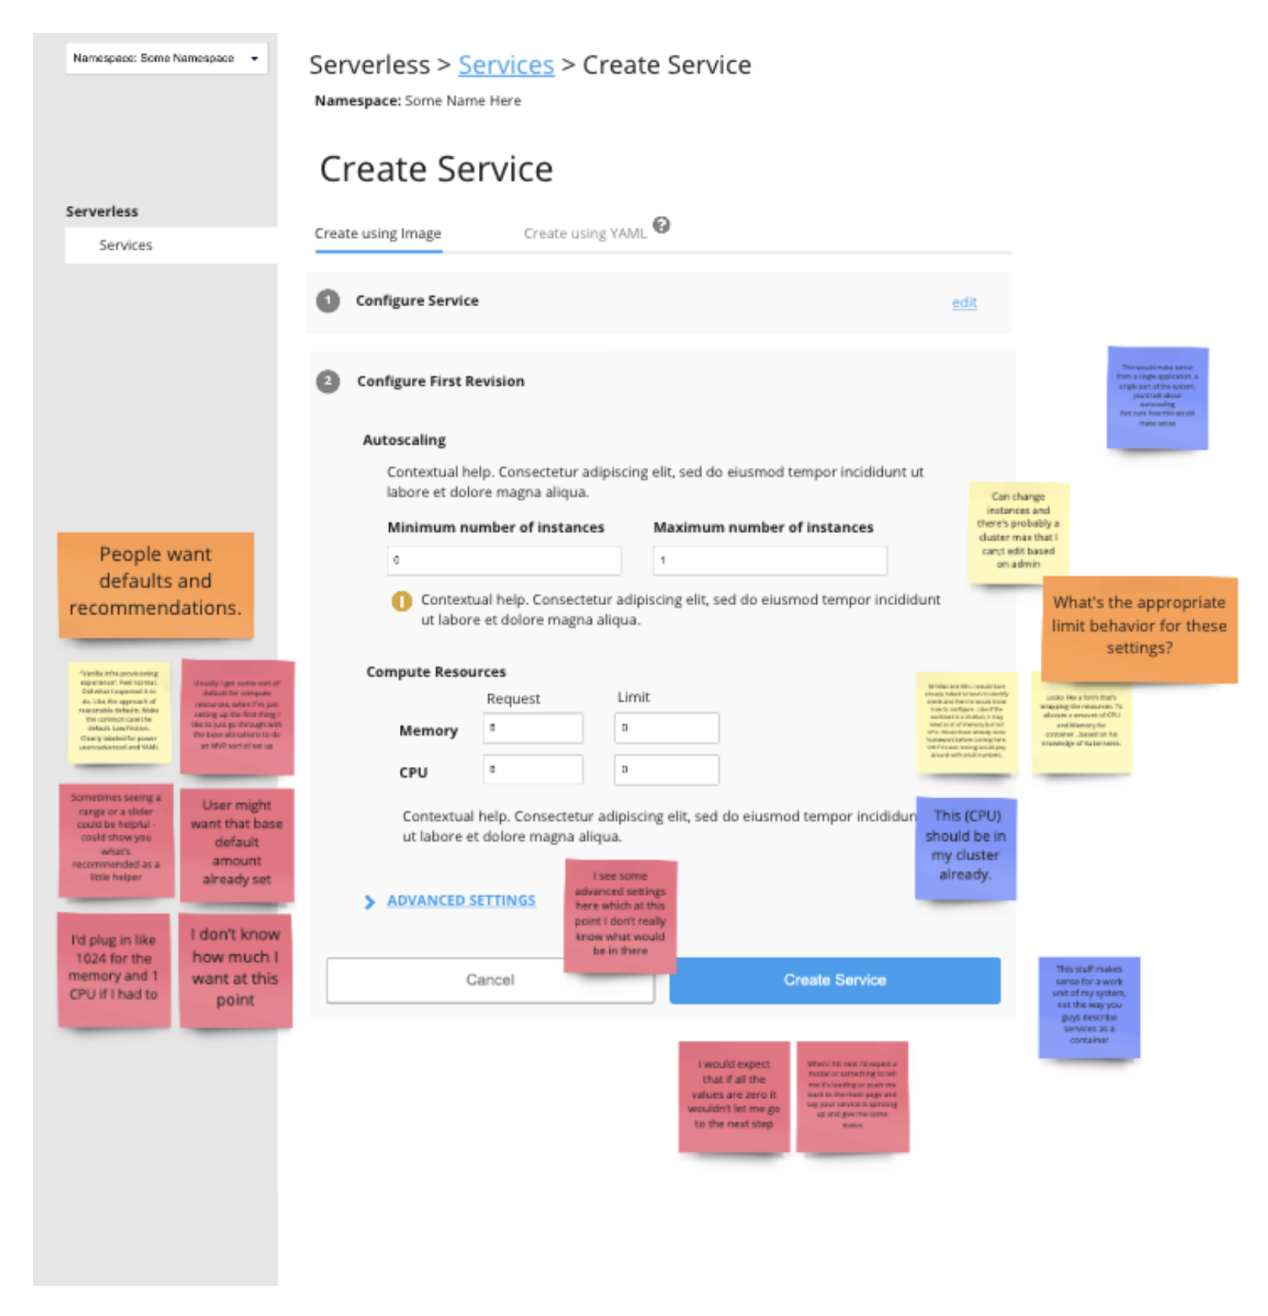
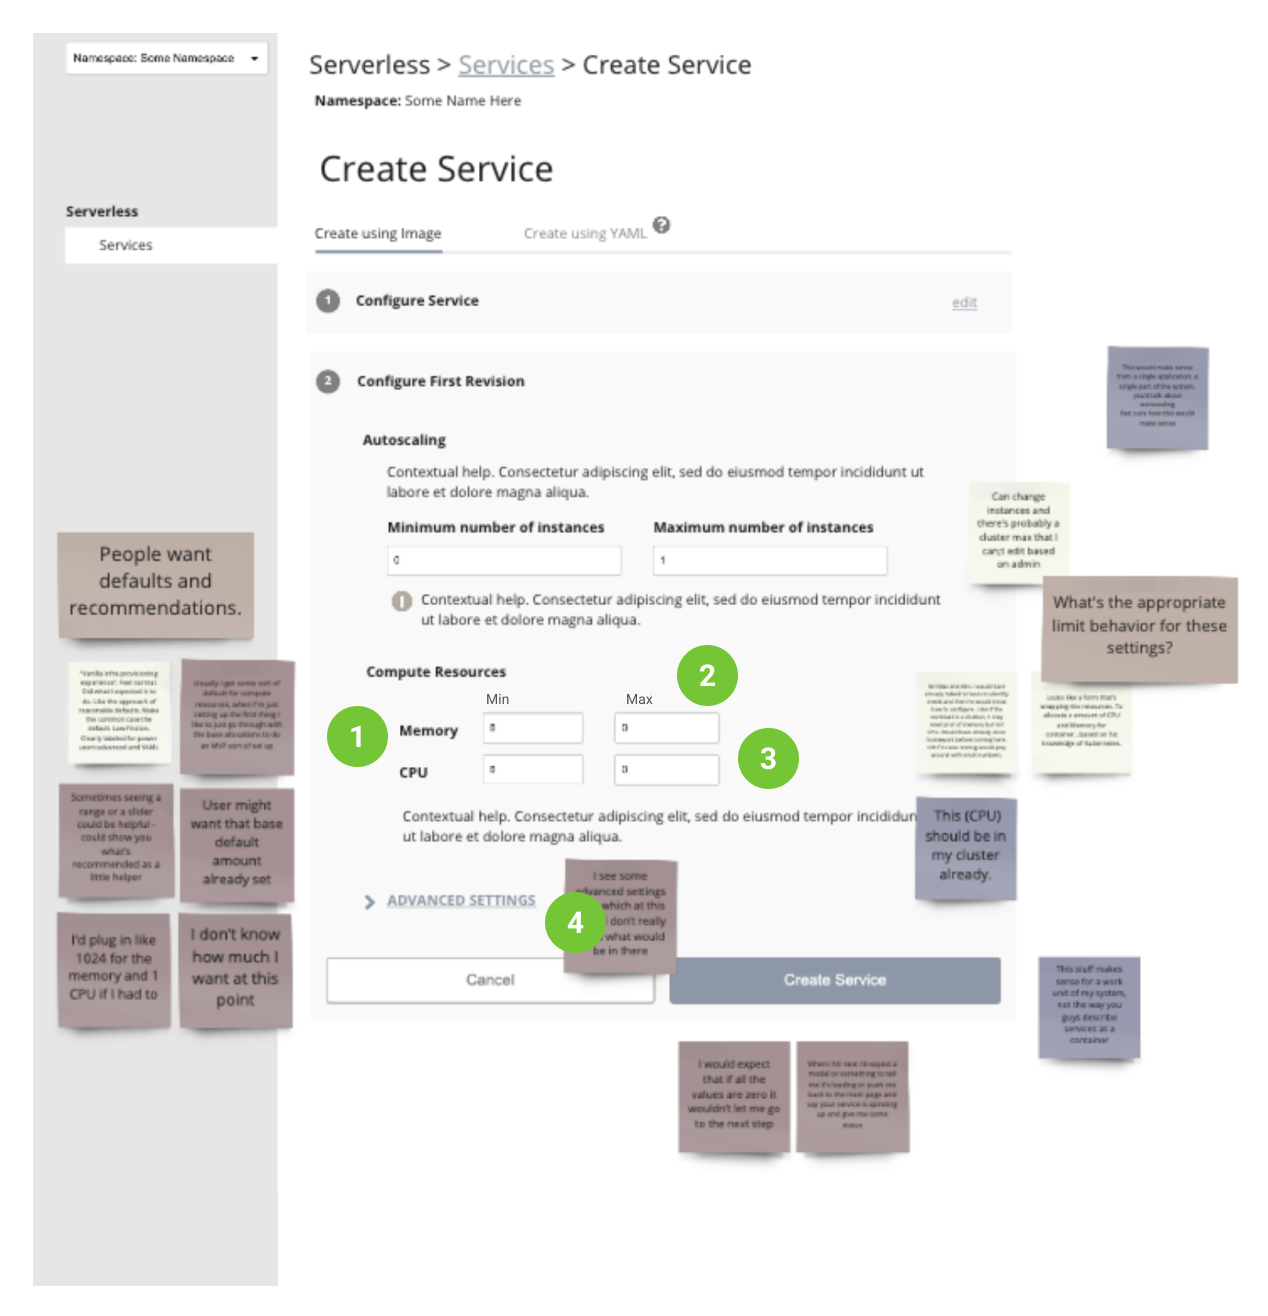
Change

diff --git a/serverless.html b/serverless.html
@@ -738,7 +738,7 @@
     </div>
   </div>
 
-  <div class="container-fluid-content-02" style="max-width: 1400px; padding-bottom:120px;">
+  <div class="container-fluid-content-02" style="max-width: 1400px; padding-bottom:240px;">
     <div class="row">
       <div class="col-md">
         <div class="">
@@ -751,22 +751,50 @@
     </div>
   </div>
 
+  <div class="container-fluid-content-02" style="max-width: 600px; padding-bottom:0px;">
+    <div class="row">
+      <div class="col-md pb-5">
+        <div class="headline-small pb-4">Feedback Example</div>
+         <div class="regular-lg pb-4">
+          When appropriate, we sythesized feedback inline to maintain context. We took the synthesis and produced new versions quickly. The example below is from our third iteration.
+        </div>
+      </div>
+    </div>
+  </div>
+
    <div class="container-fluid-content-02" style="max-width: 1400px; padding-bottom:120px;">
+    
     <div class="row gx-3">
       <div class="col-md">
         <div class="">
           <img src="images/serverless-13-02-01.png" class="img-fluid" alt="image">
         </div>
-        <div class="caption pt-3">
-          We synthesized feedback in-line to maintain context
+        <div class="bold-5 pt-4 p-4">
+          Problems:
+        </div>
+        <div class="regular-lg ps-4 pe-4 pb-4">
+          <ol>
+            <li>No default values for compute resources.</li>
+            <li>Wording for compute recource values ("Min", "Max") not aligned with open-source terminology.</li>
+            <li>No guidance for limit values.</li>
+            <li>Additional "advanced settings" didn't make sense.</li>
+          </ol>
         </div>
       </div>
       <div class="col-md">
         <div class="">
           <img src="images/serverless-13-02-02.png" class="img-fluid" alt="image">
         </div>
-        <div class="caption pt-3">
-          We took the synthesis and quickly produced new versions
+        <div class="bold-5 pt-4 p-4">
+          Solutions:
+        </div>
+        <div class="regular-lg ps-4 pe-4 pb-4">
+          <ol>
+            <li>Default values (these are important&mdash;see why in summary below).</li>
+            <li>Wording for compute recource values aligned with open-source terminology ("Request", "Limit").</li>
+            <li>Limit guidance.</li>
+            <li>Made "advanced settings" the name of step.</li>
+          </ol>
         </div>
       </div>
     </div>
@@ -775,7 +803,7 @@
   <div class="container-fluid-content-02" style="max-width: 600px; padding-bottom:60px;">
     <div class="row">
       <div class="col-md">
-        <div class="headline-small pb-5">Key Findings</div>
+        <div class="headline-small pb-5">Findings Summary</div>
         <div class="regular-lg pb-4">
           <ul>
             <li class="pb-4"><b>We strayed too far from the underlying technology:</b> We weren't staying true to underlying concepts and language used in Kubernetes and serverless functionality. This risked introducing confusion and disharmony, especially when users toggle between the GUI and CLI.</li>
